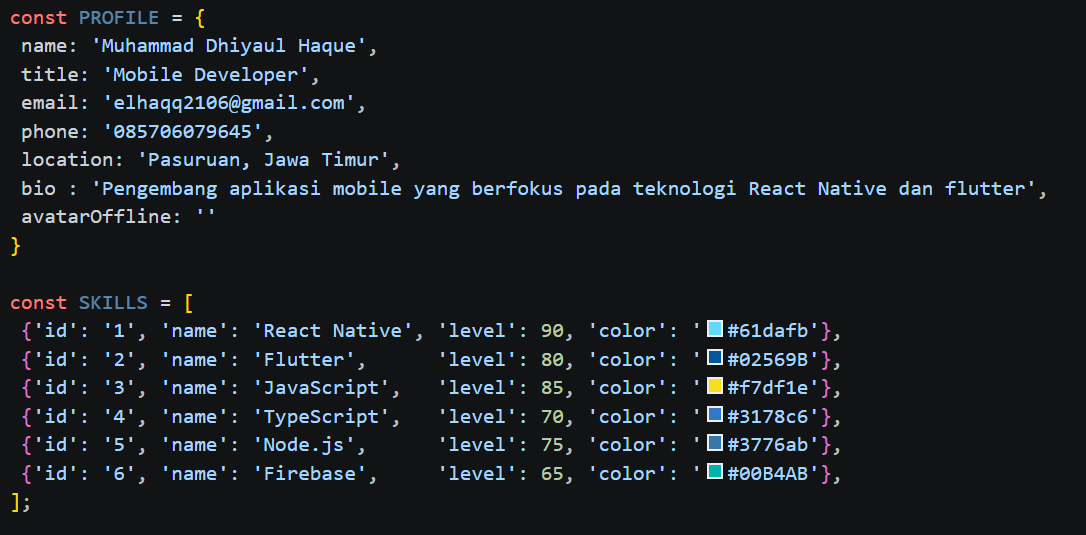
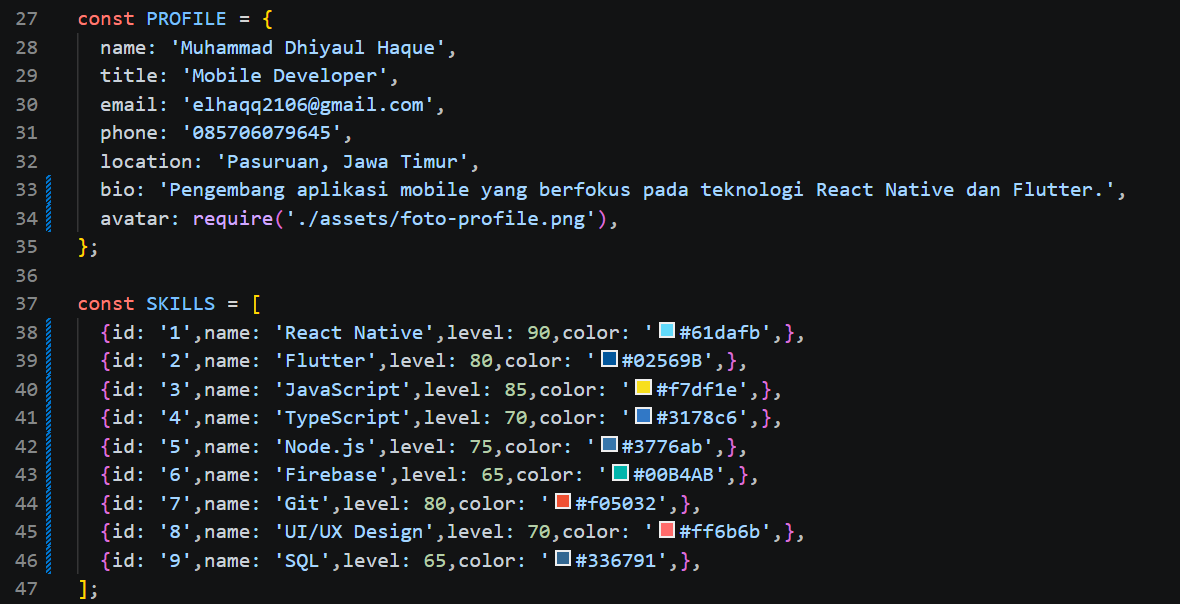
pertemuan-3

Changed region(s): [[0.0, 0.4785, 0.7901, 1.0], [0.0, 0.0, 0.942, 0.4187], [0.0, 0.4486, 0.0304, 0.5084]]

diff --git a/Pemrograman Mobile/pertemuan-2/ptmn2/App.js b/Pemrograman Mobile/pertemuan-2/ptmn2/App.js
@@ -137,7 +137,6 @@ export default function App() {
               <Text style={styles.openBadgeText}>Open to Work</Text>
             </View>
           )}
-
           <Text style={styles.name}>\{PROFILE.name}</Text>
           <Text style={styles.title}>\{PROFILE.title}</Text>
           <Text style={styles.bio}>\{PROFILE.bio}</Text>
@@ -201,10 +200,6 @@ export default function App() {
             </TouchableOpacity>
           ))}
         </View>
-        {/* ==================================================
-            PENGALAMAN
-        ==================================================== */}
-
         <View style={styles.sectionCard}>
           <Text style={styles.sectionTitle}>
             Pengalaman & Organisasi
@@ -213,146 +208,60 @@ export default function App() {
             <TouchableOpacity
               key={item.id}
               style={styles.historyCard}
-              onPress={() =>
-                showDetail(item)
-              }
+              onPress={() => showDetail(item)}
               activeOpacity={0.7}
             >
               <View style={styles.historyDot} />
-
               <View style={styles.historyContent}>
-
-                <Text style={styles.historyTitle}>
-                  {item.title}
-                </Text>
-
-                <Text style={styles.historyPlace}>
-                  {item.place}
-                </Text>
-
-                <Text style={styles.historyPeriod}>
-                  {item.period}
-                </Text>
-
+                <Text style={styles.historyTitle}>{item.title}</Text>
+                <Text style={styles.historyPlace}>{item.place}</Text>
+                <Text style={styles.historyPeriod}>{item.period}</Text>
               </View>
-
             </TouchableOpacity>
-
           ))}
-
         </View>
-
-        {/* ====================================================
-            KONTAK
-        ==================================================== */}
-
         <KeyboardAvoidingView
-          behavior={
-            Platform.OS === 'ios'
-              ? 'padding'
-              : 'height'
-          }
+          behavior={Platform.OS === 'ios'  ? 'padding'  : 'height'}
         >
-
           <View style={styles.sectionCard}>
-
-            <Text style={styles.sectionTitle}>
-              Hubungi Saya
-            </Text>
-
+            <Text style={styles.sectionTitle}>Hubungi Saya</Text>
             {/* Nama */}
-
-            <Text style={styles.inputLabel}>
-              Nama
-            </Text>
-
+            <Text style={styles.inputLabel}>Nama</Text>
             <TextInput
               style={styles.input}
               placeholder="Masukkan nama"
               placeholderTextColor="#777"
               value={senderName}
-              onChangeText={
-                setSenderName
-              }
+              onChangeText={setSenderName}
             />
-
             {/* Pesan */}
-
-            <Text style={styles.inputLabel}>
-              Pesan
-            </Text>
-
+            <Text style={styles.inputLabel}>Pesan</Text>
             <TextInput
-              style={[
-                styles.input,
-                styles.messageInput,
-              ]}
+              style={[styles.input,styles.messageInput,]}
               placeholder="Tulis pesan..."
               placeholderTextColor="#777"
               value={message}
-              onChangeText={
-                setMessage
-              }
+              onChangeText={setMessage}
               multiline
             />
-
             {/* Tombol */}
-
             <TouchableOpacity
-              style={
-                styles.sendButton
-              }
-              onPress={
-                sendMessage
-              }
-              disabled={
-                sending
-              }
+              style={styles.sendButton}
+              onPress={sendMessage}
+              disabled={sending}
               activeOpacity={0.8}
             >
-
               {sending ? (
-
-                <View
-                  style={styles.loadingContainer}
-                >
-
-                  <ActivityIndicator
-                    color="#ffffff"
-                  />
-
-                  <Text
-                    style={
-                      styles.sendText
-                    }
-                  >
-                    Mengirim...
-                  </Text>
-
+                <View style={styles.loadingContainer}>
+                  <ActivityIndicator color="#ffffff"/>
+                  <Text style={styles.sendText}>Mengirim... </Text>
                 </View>
-
-              ) : (
-
-                <Text
-                  style={
-                    styles.sendText
-                  }
-                >
-                  Kirim Pesan
-                </Text>
-              )}
+              ) : (<Text style={styles.sendText}> Kirim Pesan</Text>)}
             </TouchableOpacity>
-            <Button
-              title="Reset Form"
-              onPress={() => {
-                setSenderName('');
-                setMessage('');
-              }}
-            />
+            <Button title="Reset Form" onPress={() => {setSenderName('');setMessage('');}}/>
           </View>
         </KeyboardAvoidingView>
       </ScrollView>
-
       <Modal
         visible={modalVisible}
         transparent={true}
@@ -366,9 +275,9 @@ export default function App() {
             <Text style={styles.modalTitle}>Detail</Text>
             {selectedItem && (
               <>
-                <Text style={styles.modalItemTitle}>{selectedItem.title}]</Text>
-                <Text style={styles.modalItemText}>{selectedItem.place}]</Text>
-                <Text style={styles.modalItemText}>{selectedItem.period}]</Text>
+                <Text style={styles.modalItemTitle}>{selectedItem.title}</Text>
+                <Text style={styles.modalItemText}>{selectedItem.place}</Text>
+                <Text style={styles.modalItemText}>{selectedItem.period}</Text>
               </>
             )}
             <TouchableOpacity

diff --git a/Pemrograman Mobile/pertemuan-3/Laporan-praktikum3.md b/Pemrograman Mobile/pertemuan-3/Laporan-praktikum3.md
@@ -1,0 +1,73 @@
+# Laporan pertemuan 3: Core Componente dan Styling #
+
+### Langkah 1: Import library & components ###
+1. Buka File App.js yang ada di folder proyek ptmn2
+2. Import library dan Component yang diperlukan
+3. Konfirmasi Bukti
+
+<img src="image.png" width="50%">
+
+### Langkah 2: Membuat Array Objek ###
+1. Data Profile dan Skill
+
+![alt text](image-1.png)
+
+2. Data Riwayat(section)
+
+![alt text](image-2.png)
+
+
+### langkah 3: Sub-Components (SkillCard & TimelineCard) ###
+
+![alt text](image-3.png)
+
+### langkah 4: State Management dengan useState ###
+
+![alt text](image-4.png)
+
+### langkah 5: SafeAreaView, StatusBar & Header ###
+
+![alt text](image-6.png)
+
+### langkah 6: ScrollView & Profil Section (View, Text,  img/image) ###
+
+![alt text](image-5.png)
+
+### langkah 7: FlatList (Daftar Skills) ###
+
+![alt text](image-7.png)
+
+### langkah 8: SectionList (Pengalaman & Pendidikan) ###
+
+
+### langkah 9: TextInput, Button & ActivityIndicator ###
+
+![alt text](image-8.png)
+
+### langkah 10: Modal (Popup Detail) ###
+
+![alt text](image-9.png)
+
+### langkah 11: StyleSheet (Styling Terpusat) ###
+
+![alt text](image-10.png)
+![alt text](image-11.png)
+![alt text](image-12.png)
+![alt text](image-13.png)
+![alt text](image-14.png)
+![alt text](image-15.png)
+
+### Langkah 12: Verifikasi ###
+1. Aplikasi bisa dibuka, Layar CV tampil tanpa error
+2. Foto profil tampil, Gambar dari URL terload
+3. Halaman bisa di-scroll, Semua section bisa diakses
+4. Toggle Switch, Badge "Open to Work" muncul/hilang
+5. Progress bar skill, Bar berwarna sesuai persentase
+6. Ketuk kartu riwayat, Modal popup muncul dari bawah
+7. Tombol Tutup di Modal, Modal tertutup
+8. Isi form & kirim, Loading 2 detik → Alert sukses
+9. Kirim dengan input kosong, Alert peringatan muncul
+10. Tekan Download CV, Efek visual berubah + Alert
+11. Tap tombol sosmed, Alert URL muncul
+
+<img src="app.gif" width="50%">
